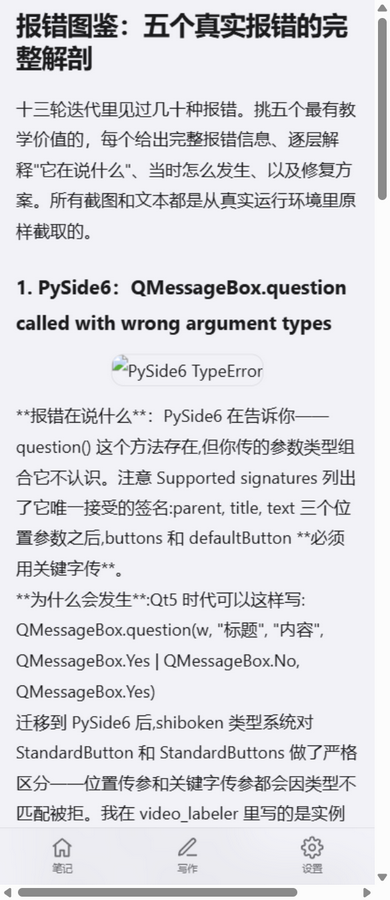
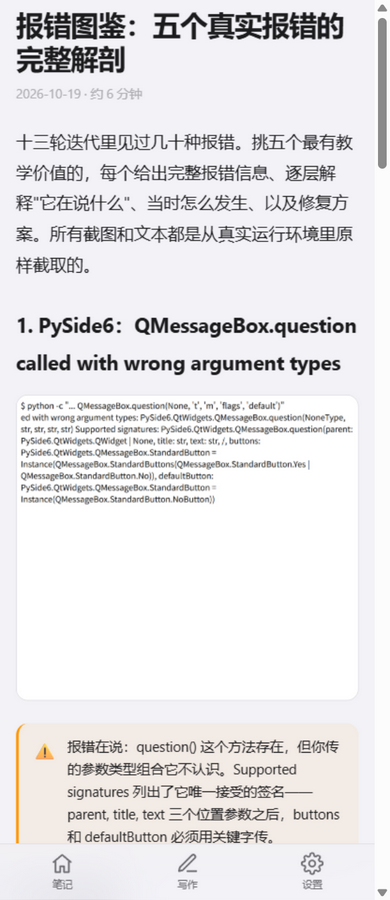
feat(交互): 方向感知的页面切换过渡 + 阅读进度条 + 滚动复位
- 页面切换:push(进详情)从右滑入,pop(返回)从左滑入,0.25s ease-out
- 阅读进度条:文章页顶部蓝色进度条,随滚动更新
- 切页自动回到顶部
- App.jsx 重构:路由深度表推断方向,key 触发重挂载动画

diff --git a/src/App.jsx b/src/App.jsx
@@ -1,4 +1,5 @@
-import { Route, Routes } from 'react-router-dom'
+import { useEffect, useRef } from 'react'
+import { Route, Routes, useLocation, useNavigate } from 'react-router-dom'
 import { useApp } from './context/AppContext'
 import TabBar from './components/TabBar'
 import Home from './pages/Home'
@@ -8,34 +9,75 @@ import Settings from './pages/Settings'
 import Lock from './pages/Lock'
 import { IconLock } from './components/icons'
 
+/** 路由深度表:用于推断导航方向(push=从右滑入, pop=从左滑出) */
+const DEPTH = { '/': 0, '/editor': 1, '/settings': 1 }
+
+function routeDepth(pathname) {
+  if (pathname.startsWith('/article/')) return 1
+  return DEPTH[pathname] ?? 0
+}
+
 export default function App() {
   const { locked } = useApp()
+  const location = useLocation()
+  const navigate = useNavigate()
+  const prevPath = useRef(location.pathname)
+  const direction = useRef('push')
+
+  // 推断导航方向:深度增加 = push(从右入), 深度减少 = pop(从左入)
+  useEffect(() => {
+    const prev = prevPath.current
+    const curr = location.pathname
+    if (prev !== curr) {
+      direction.current = routeDepth(curr) >= routeDepth(prev) ? 'push' : 'pop'
+      prevPath.current = curr
+    }
+  }, [location.pathname])
+
+  // 切页时回到顶部
+  useEffect(() => {
+    window.scrollTo({ top: 0, behavior: 'instant' })
+  }, [location.pathname])
 
   if (locked) return <Lock />
 
+  const pageClass = `page page-${direction.current}`
+
   return (
     <div className="app">
-      <Routes>
-        <Route path="/" element={<Home />} />
-        <Route path="/article/:id" element={<ArticleDetail />} />
-        <Route path="/editor" element={<Editor />} />
-        <Route path="/settings" element={<Settings />} />
-        <Route
-          path="*"
-          element={
-            <div className="empty-state">
-              <div className="icon">🧭</div>
-              <div className="t">页面不存在</div>
-            </div>
-          }
-        />
-      </Routes>
-      {!locked && <TabBar />}
+      {/* 路由出口:pathname 变化时触发重新挂载,播放过渡动画 */}
+      <div key={location.pathname} className={pageClass}>
+        <Routes location={location}>
+          <Route path="/" element={<Home />} />
+          <Route path="/article/:id" element={<ArticleDetail />} />
+          <Route path="/editor" element={<Editor />} />
+          <Route path="/settings" element={<Settings />} />
+          <Route
+            path="*"
+            element={
+              <div className="empty-state">
+                <div className="icon">🧭</div>
+                <div className="t">页面不存在</div>
+              </div>
+            }
+          />
+        </Routes>
+      </div>
+      <TabBar />
       {locked && (
-        <div style={{ position: 'fixed', bottom: 'calc(20px + env(safe-area-inset-bottom))', left: 0, right: 0, textAlign: 'center', color: 'var(--text-3)', fontSize: 12, display: 'flex', justifyContent: 'center', gap: 6, alignItems: 'center' }}>
+        <div
+          style={{
+            position: 'fixed', bottom: 'calc(20px + env(safe-area-inset-bottom))',
+            left: 0, right: 0, textAlign: 'center', color: 'var(--text-3)',
+            fontSize: 12, display: 'flex', justifyContent: 'center', gap: 6, alignItems: 'center',
+          }}
+        >
           <IconLock size={13} /> MiniFlow 已加密锁定
         </div>
       )}
     </div>
   )
 }
+
+/** 暴露导航函数给子组件(可选) */
+export { useNavigate }

diff --git a/src/pages/ArticleDetail.jsx b/src/pages/ArticleDetail.jsx
@@ -1,4 +1,4 @@
-import { useState } from 'react'
+import { useEffect, useRef, useState } from 'react'
 import { useNavigate, useParams } from 'react-router-dom'
 import { useApp } from '../context/AppContext'
 import { exportPostMarkdown } from '../lib/store'
@@ -98,6 +98,22 @@ export default function ArticleDetail() {
   const { posts, remove } = useApp()
   const post = posts.find((p) => p.id === id)
   const [confirming, setConfirming] = useState(false)
+  const [progress, setProgress] = useState(0)
+  const readerRef = useRef(null)
+
+  // 阅读进度:滚动时更新顶部进度条
+  useEffect(() => {
+    const onScroll = () => {
+      const el = readerRef.current
+      if (!el) return
+      const total = el.scrollHeight - window.innerHeight
+      if (total <= 0) { setProgress(0); return }
+      setProgress(Math.min(1, Math.max(0, window.scrollY / total)))
+    }
+    window.addEventListener('scroll', onScroll, { passive: true })
+    onScroll()
+    return () => window.removeEventListener('scroll', onScroll)
+  }, [])
 
   if (!post) {
     return (
@@ -118,7 +134,11 @@ export default function ArticleDetail() {
   const readMin = Math.max(1, Math.ceil((post.content || '').replace(/\s/g, '').length / 400))
 
   return (
-    <div className="content reader">
+    <>
+      {progress > 0 && (
+        <div className="reading-progress" style={{ width: `${progress * 100}%` }} />
+      )}
+      <div className="content reader" ref={readerRef}>
       <h1>{post.title}</h1>
       <div className="meta">
         {post.createdAt} · 约 {readMin} 分钟
@@ -149,5 +169,6 @@ export default function ArticleDetail() {
         </div>
       )}
     </div>
+    </>
   )
 }

diff --git a/src/styles.css b/src/styles.css
@@ -373,6 +373,33 @@ a { color: var(--blue); text-decoration: none; }
 [data-theme='dark'] .callout-warn  { background: rgba(255, 159, 10, 0.1); }
 [data-theme='dark'] .callout-bad   { background: rgba(255, 59, 48, 0.1); }
 
+/* ---------- 页面切换过渡(iOS push/pop) ---------- */
+.page {
+  min-height: calc(100vh - var(--tabbar-h));
+}
+.page-push {
+  animation: pushIn var(--dur-normal) var(--ease-out) both;
+}
+.page-pop {
+  animation: popIn var(--dur-normal) var(--ease-out) both;
+}
+@keyframes pushIn {
+  from { opacity: 0; transform: translateX(30px); }
+  to   { opacity: 1; transform: translateX(0); }
+}
+@keyframes popIn {
+  from { opacity: 0; transform: translateX(-30px); }
+  to   { opacity: 1; transform: translateX(0); }
+}
+
+/* 阅读进度条 */
+.reading-progress {
+  position: fixed; top: 0; left: 0; height: 3px; z-index: 60;
+  background: var(--blue); border-radius: 0 2px 2px 0;
+  transition: width 0.1s linear;
+  pointer-events: none;
+}
+
 /* ---------- 页面切换过渡 ---------- */
 .page-enter { animation: pageIn var(--dur-normal) var(--ease-out) both; }
 @keyframes pageIn { from { opacity: 0; transform: translateY(6px); } }
